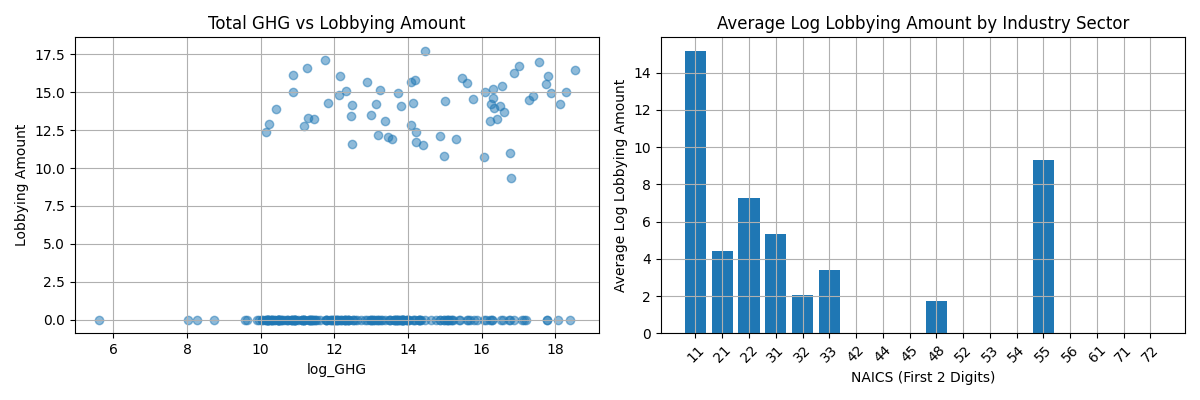
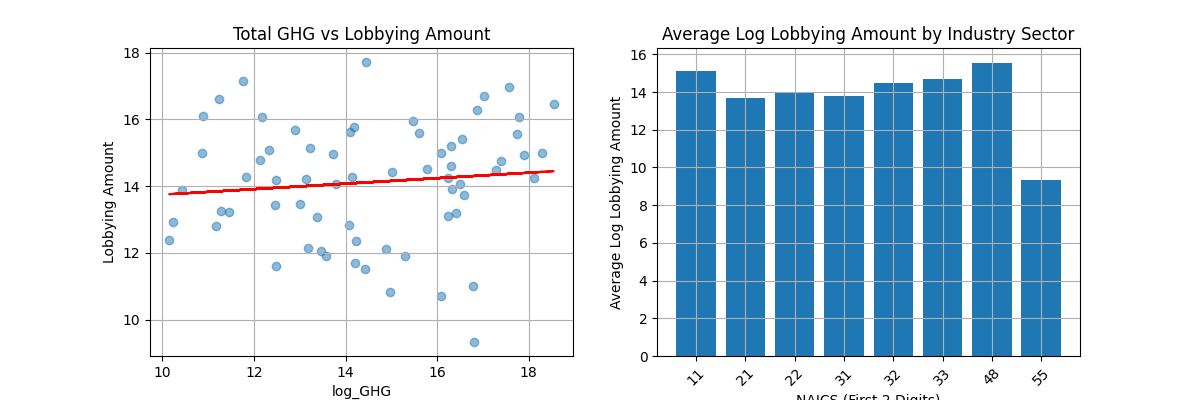
generate final visualization

diff --git a/finaldatasets/5. model data/visualize_data.py b/finaldatasets/5. model data/visualize_data.py
@@ -2,6 +2,8 @@
 import pandas as pd
 import matplotlib.pyplot as plt
 from sklearn.preprocessing import OneHotEncoder
+from sklearn.linear_model import LinearRegression
+from sklearn.metrics import r2_score
 import numpy as np
 
 # Load the dataset
@@ -12,7 +14,14 @@ data['NAICS'] = data['NAICS'].astype(str)
 fig, (ax1, ax2) = plt.subplots(1, 2, figsize=(12, 4))
 
 # Plot 1: Total GHG vs Lobbying Amount
+model = LinearRegression()
+model.fit(data[['log_GHG']], data['log_lobby_amount'])
+y_pred = model.predict(data[['log_GHG']])
+r2 = r2_score(data['log_lobby_amount'], y_pred)
+print('R^2:', r2)
+
 ax1.scatter(data['log_GHG'], data['log_lobby_amount'], alpha=0.5)
+ax1.plot(data['log_GHG'], y_pred, color='red')
 ax1.set_xlabel('log_GHG')
 ax1.set_ylabel('Lobbying Amount')
 ax1.set_title('Total GHG vs Lobbying Amount')

diff --git a/finaldatasets/5. model data/train_data.py b/finaldatasets/5. model data/train_data.py
@@ -10,14 +10,14 @@ columns = ['Total GHG', 'NAICS', 'lobby_amount']
 data = data[columns]
 
 # Drop rows with missing values
+data['lobby_amount'] = data['lobby_amount'].replace(0, np.nan)
 data = data.dropna()
 
 # Extract first 2 digits of NAICS code
 data['NAICS'] = data['NAICS'].astype(str).str[:2].astype(int)
 
 # Apply log transformation to Total GHG and lobby_amount
-data['log_GHG'] = np.log1p(data['Total GHG'])
-data['log_lobby_amount'] = np.log1p(data['lobby_amount'])
-data = data.drop(columns=['Total GHG', 'lobby_amount'])
+data['log_GHG'] = np.log(data['Total GHG'])
+data['log_lobby_amount'] = np.log(data['lobby_amount'])
 
 data.to_csv("training_data.csv", index=False)
